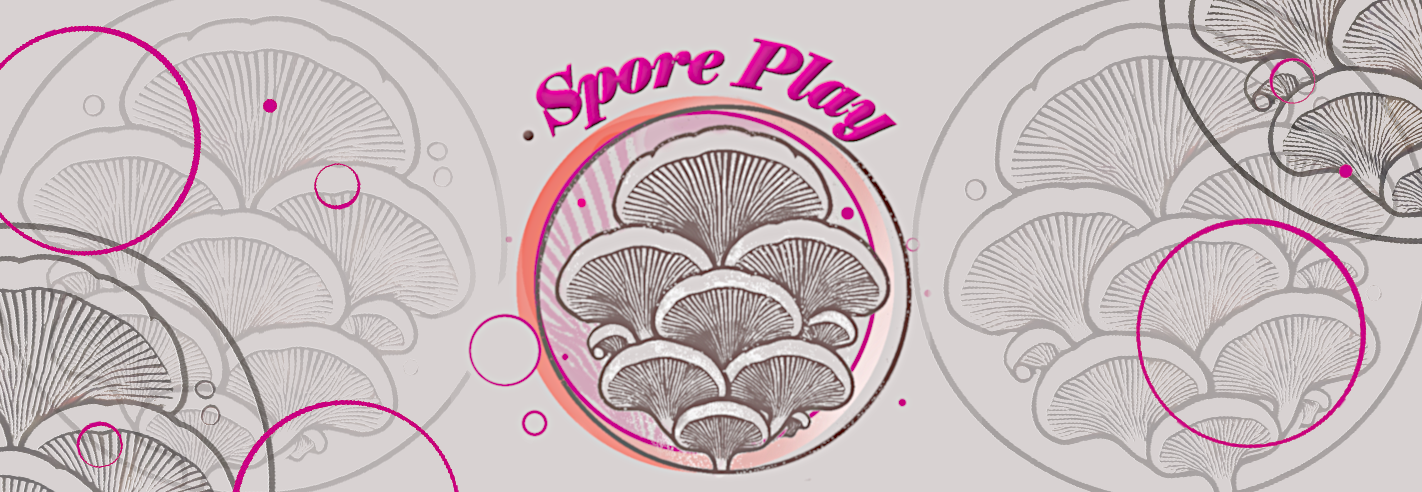
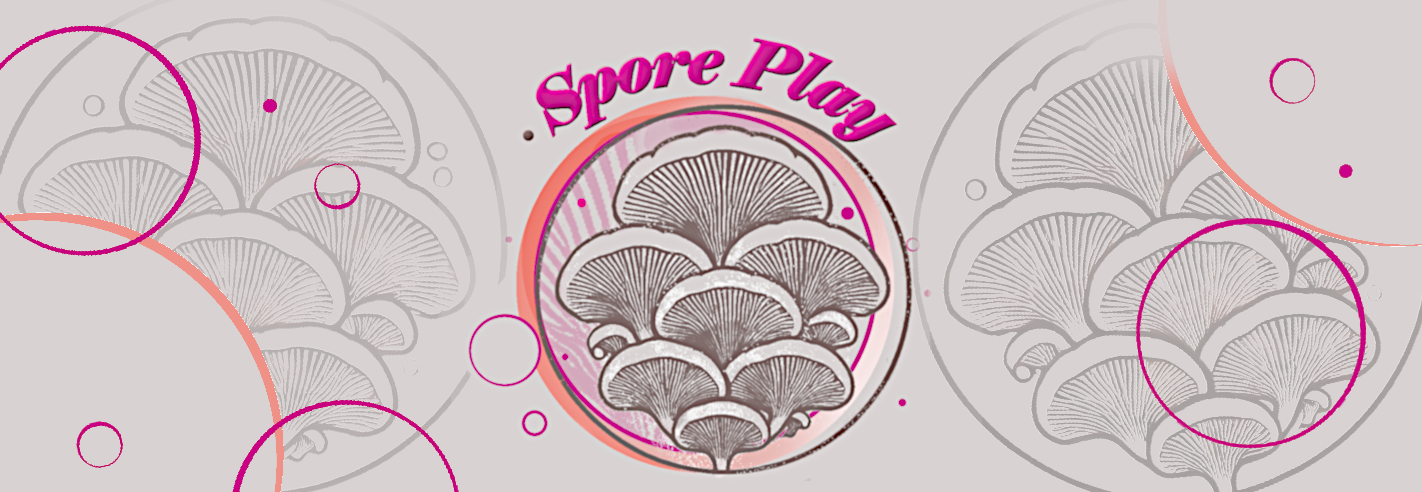
images changed faq added

diff --git a/index.html b/index.html
@@ -30,13 +30,13 @@ body {font-family: "Lato", sans-serif}
     <a href="#" class="w3-bar-item w3-button w3-padding-large">Home</a>
     <a href="#Growing-Instructions" class="w3-bar-item w3-button w3-padding-large w3-hide-small">Growing Instructions</a>
     <a href="#Recipes" class="w3-bar-item w3-button w3-padding-large w3-hide-small">Recipes</a>
-    <a href="#Contact" class="w3-bar-item w3-button w3-padding-large w3-hide-small">Contact</a>
+    <a href="#Story" class="w3-bar-item w3-button w3-padding-large w3-hide-small">What's the story?</a>
     <div class="w3-dropdown-hover w3-hide-small">
       <button class="w3-padding-large w3-button" title="More">MORE <i class="fa fa-caret-down"></i></button>     
       <div class="w3-dropdown-content w3-bar-block w3-card-4">
         <a href="#FAQs" class="w3-bar-item w3-button">FAQs</a>
-        <a href="#Story" class="w3-bar-item w3-button">How your grow kit is made</a>
         <a href="#Mushroom-Facts" class="w3-bar-item w3-button">Mushroom Facts</a>
+        <a href="#Contact" class="w3-bar-item w3-button">Contact</a>
       </div>
     </div>
     <a href="javascript:void(0)" class="w3-padding-large w3-hover-red w3-hide-small w3-right"><i class="fa fa-search"></i></a>
@@ -47,8 +47,9 @@ body {font-family: "Lato", sans-serif}
 <div id="navDemo" class="w3-bar-block w3-black w3-hide w3-hide-large w3-hide-medium w3-top" style="margin-top:46px">
   <a href="#Growing-Instructions" class="w3-bar-item w3-button w3-padding-large" onclick="myFunction()">Growing Instructions</a>
   <a href="#Recipes" class="w3-bar-item w3-button w3-padding-large" onclick="myFunction()">Recipes</a>
-  <a href="#Contact" class="w3-bar-item w3-button w3-padding-large" onclick="myFunction()">Contact</a>
   <a href="#FAQs" class="w3-bar-item w3-button w3-padding-large" onclick="myFunction()">FAQs</a>
+  <a href="#Contact" class="w3-bar-item w3-button w3-padding-large" onclick="myFunction()">Contact</a>
+  
 </div>
 
 <!-- Page content -->
@@ -69,7 +70,7 @@ body {font-family: "Lato", sans-serif}
     </div>
   </div>
   <div class="mySlides w3-display-container w3-center">
-    <img src="PXL_20241027_170858976.PORTRAIT (1).jpg" style="height: 150%" width=80%>
+    <img src="cover_image1_branded.png" style="height: 150%" width=80%>
     <div class="w3-display-bottommiddle w3-container w3-text-white w3-padding-32 w3-hide-small">
       <h3>Pink Oyster</h3>
       <p><b>Easy and quick to grow</b></p>    
@@ -117,14 +118,35 @@ body {font-family: "Lato", sans-serif}
       </div>
     </div>
 
+    
       <!-- The FAQ Section -->
   <div class="w3-container w3-content w3-center w3-padding-64" style="max-width:800px" id="FAQs">
-    <h2 class="w3-wide">FAQs</h2>
+    <h2 class="w3-wide">Frequently Asked Questions</h2>
     <p class="w3-opacity"><i>Follow these simple steps</i></p>
-    <p class="w3-justify">When your grow kit arrives it is ready to fruit mushrooms. It can be kept in a cool,
-         dark place for up to 1 month before you begin growing. See the FAQs section for more tips and tricks.</p>
 
-         <!-- <img src="grow_instructions_schematic.jpg" style="width:100%"> -->
+    <div class="faq-content">
+      <div class="faq-question">
+        <input id="q1" type="checkbox" class="panel">
+        <div class="plus">+</div>
+        <label for="q1" class="panel-title">What is the meaning of life?</label>
+        <div class="panel-content">42</div>
+      </div>
+      
+      <div class="faq-question">
+        <input id="q2" type="checkbox" class="panel">
+        <div class="plus">+</div>
+        <label for="q2" class="panel-title">How much wood would a woodchuck chuck?</label>
+        <div class="panel-content">A woodchuck would chuck all the wood he could chuck, if a woodchuck could chuck wood!</div>
+      </div>
+      
+      <div class="faq-question">
+        <input id="q3" type="checkbox" class="panel">
+        <div class="plus">+</div>
+        <label for="q3" class="panel-title">What happens if Pinocchio says, "my nose will grow now"?</label>
+        <div class="panel-content">Certain questions are better left &nbsp; <a href="https://en.wikipedia.org/wiki/The_Unanswered_Question" target="_blank">unanswered</a></div>
+      </div>
+    </div>
+
     </div>
   </div>
 
@@ -145,6 +167,11 @@ body {font-family: "Lato", sans-serif}
          <p class="w3-justify">When your grow kit arrives it is ready to fruit mushrooms. It can be kept in a cool,
           dark place for up to 1 month before you begin growing. See the FAQs section for more tips and tricks.</p>
 
+          <img src="substrate_collonising.jpg" style="width:70%">
+          
+          <p class="w3-justify">When your grow kit arrives it is ready to fruit mushrooms. It can be kept in a cool,
+            dark place for up to 1 month before you begin growing. See the FAQs section for more tips and tricks.</p>
+  
     </div>
   </div>
 

diff --git a/style.css b/style.css
@@ -1485,7 +1485,7 @@ a {
 
 .w3-pink,.w3-hover-pink:hover {
     color: #fff!important;
-    background-color: #e91e63!important
+    background-color: #d52b96!important
 }
 
 .w3-purple,.w3-hover-purple:hover {
@@ -1500,7 +1500,7 @@ a {
 
 .w3-red,.w3-hover-red:hover {
     color: #fff!important;
-    background-color: #f44336!important
+    background-color: #d52b96!important
 }
 
 .w3-sand,.w3-hover-sand:hover {
@@ -1786,3 +1786,93 @@ a {
 .w3-border-pale-blue,.w3-hover-border-pale-blue:hover {
     border-color: #e7ffff!important
 }
+
+
+/* FAQ section */
+@import url(https://fonts.googleapis.com/css?family=Raleway);
+
+/* body {
+  color: #333;
+  background: #fcfcfc;
+  font-family: 'Raleway', sans-serif;
+  overflow-x: hidden;
+} */
+
+.faq-header{
+  font-size: 42px;
+  border-bottom: 1px dotted #ccc;
+  padding: 24px;
+}
+
+.faq-content {
+  margin: 0 auto;
+}
+
+.faq-question {
+  padding: 20px 0;
+  border-bottom: 1px dotted #ee7c71;
+}
+
+.panel-title {
+  font-size: 24px;
+  width: 100%;
+  position: relative;
+  margin: 0;
+  padding: 10px 10px 0 48px;
+  display: block;
+  cursor: pointer;
+}
+
+.panel-content {
+  font-size: 20px;
+  padding: 0px 14px;
+  margin: 0 40px;
+  height: 0;
+  overflow: hidden;
+  z-index: -1;
+  position: relative;
+  opacity: 0;
+  -webkit-transition: .4s ease;
+  -moz-transition: .4s ease;
+  -o-transition: .4s ease;
+  transition: .4s ease;
+}
+
+.panel:checked ~ .panel-content{
+  height: auto;
+  opacity: 1;
+  padding: 14px;
+}
+
+.plus {
+  position: absolute;
+  margin-left: 20px;
+  margin-top: 4px;
+  z-index: 1500;
+  font-size: 42px;
+  line-height: 100%;
+  -webkit-user-select: none;    
+  -moz-user-select: none;
+  -ms-user-select: none;
+  -o-user-select: none;
+  user-select: none;
+  -webkit-transition: .2s ease;
+  -moz-transition: .2s ease;
+  -o-transition: .2s ease;
+  transition: .2s ease;
+}
+
+.panel:checked ~ .plus {
+  -webkit-transform: rotate(45deg);
+  -moz-transform: rotate(45deg);
+  -o-transform: rotate(45deg);
+  transform: rotate(45deg);
+}
+
+.panel {
+  display: none;
+}
+
+html {
+    scroll-behavior: smooth;
+  }
